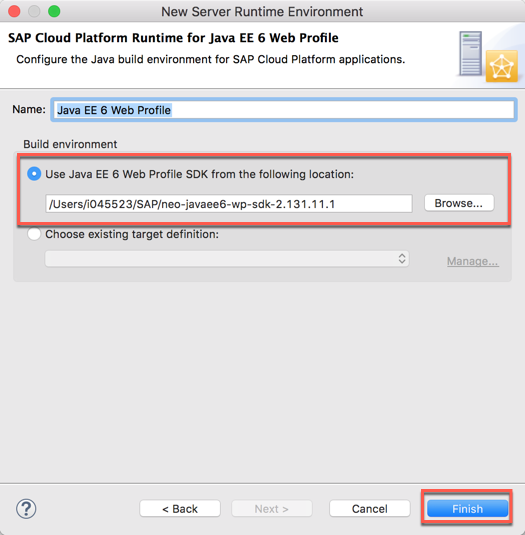
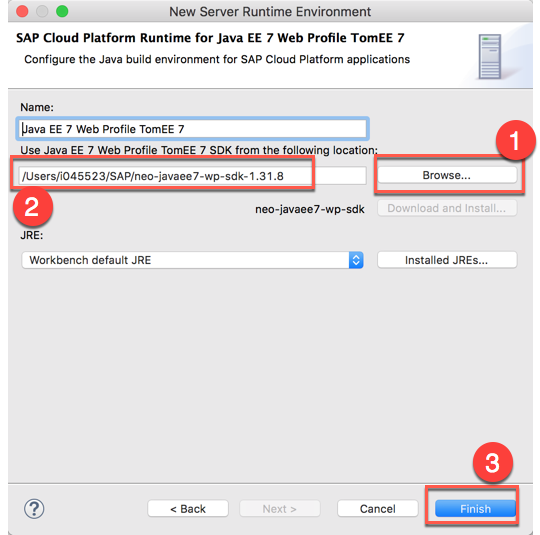
Updated Java EE 6 Web Profile to Java EE 7

diff --git a/Prerequisites/Prerequisites.md b/Prerequisites/Prerequisites.md
@@ -123,7 +123,7 @@ Neo commands used during S/4HANA extension development are part of SAP Cloud Pla
 ### <a name="create-runtime-environment"></a>Create a new Neo Runtime Environment
 During Java application deployment to SAP Cloud Platform, you will be using Java EE 6 Web Server runtime.
 
-1. Download the latest version of Java EE 6 Web Profile from here <https://tools.hana.ondemand.com/#cloud>  
+1. Download the latest version of Java EE 7 Web Profile TomEE 7 from here <https://tools.hana.ondemand.com/#cloud>  
 	![](images/07_02.png)
 
 1. Extract it in a folder on your disk
@@ -131,13 +131,13 @@ During Java application deployment to SAP Cloud Platform, you will be using Java
 1.	From Eclipse Oxygen, go to **Preferences** window. Search for **runtime** and, under the path **Server -> Runtime Environments** click **Add**  
 	![](images/08.png)
 
-1.	Under **SAP** catalog, select **Java EE 6 Web Profile** and click **Next**  
+1.	Under **SAP** catalog, select **Java EE 7 Web Profile TomEE 7** and click **Next**  
 	![](images/09.png)
 
-1.	Browse to the location of the Java EE 6 Web Profile SDK folder you have just extracted and click **Finish**  
+1.	Browse to the location of the Java EE 7 Web Profile TomEE 7 folder you have just extracted and click **Finish**  
 	![](images/10.png)
 
-1.	Java EE 6 Web Profile is installed. Click on **Apply and Close**    
+1.	Java EE 7 Web Profile is installed. Click on **Apply and Close**    
 	![](images/10_02.png)
 
 
